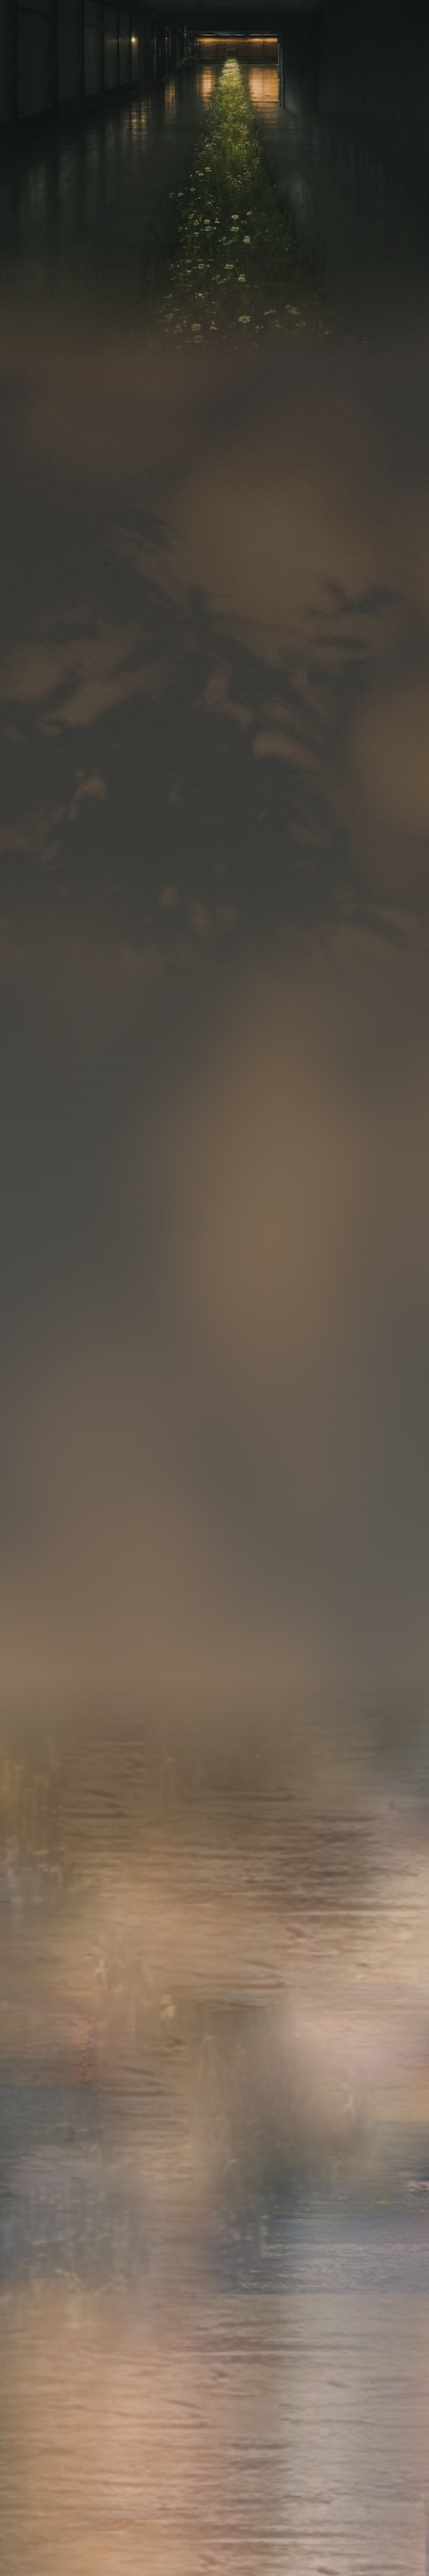
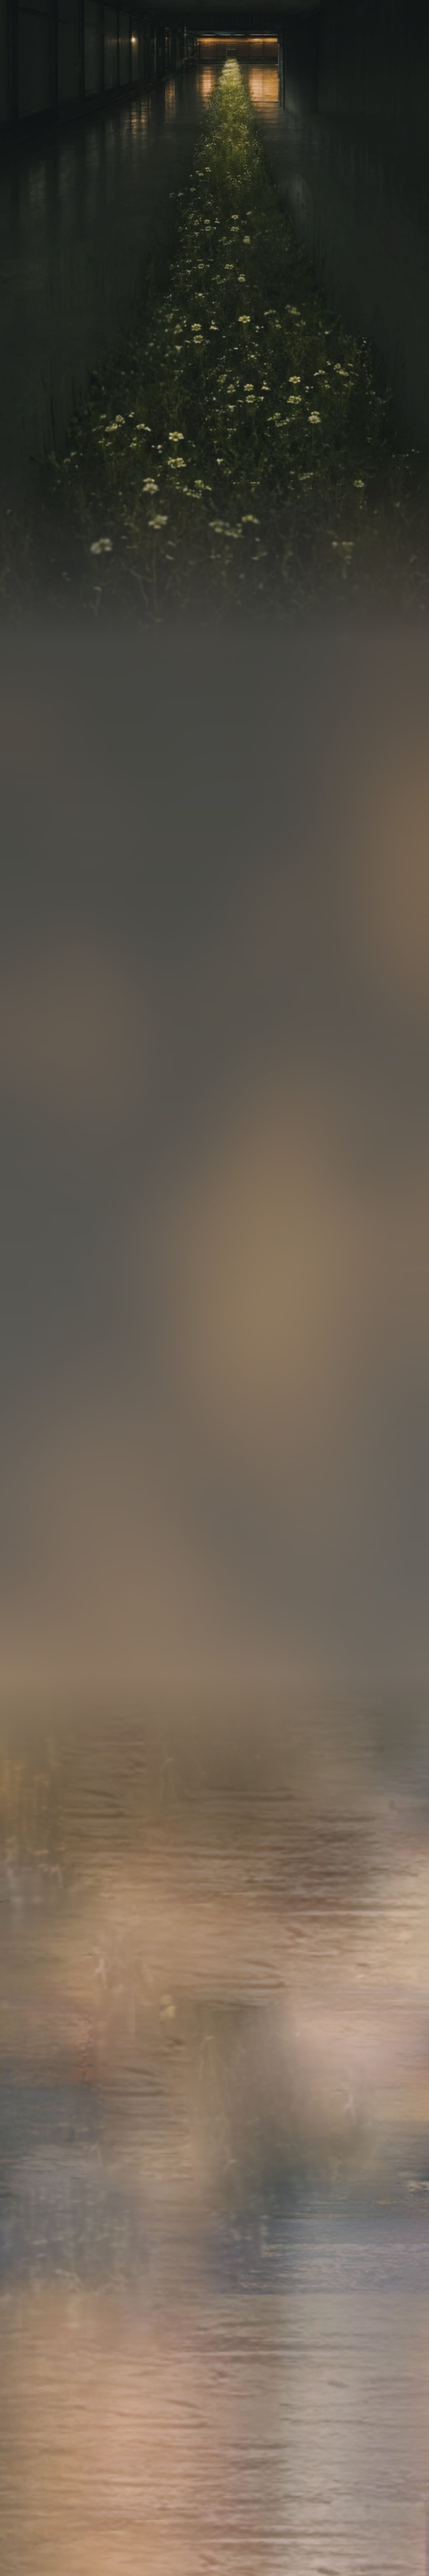
Garden wall: foliage held longer, brighter shade, leaf shadows that sway
The planted corridor now carries through the first Daffodils frames before
giving way to warmer, brighter light. The leaf shadows are a separate layer
multiplied onto the wall with a slow, slight sway (still for visitors who
prefer reduced motion).

Claude-Session: https://claude.ai/code/session_017CfwZAVzcE1XJqFP6CWfhU

diff --git a/app/claude-pass.css b/app/claude-pass.css
@@ -141,3 +141,37 @@
   text-shadow: 0 1px 6px rgba(12, 10, 8, .55);
   text-align: left;
 }
+
+/* GARDEN — leaf shadows cast by the room's plants, moving slightly as if in
+   air. A separate layer multiplied onto the wall, so the shadows can sway
+   without moving the wall itself. Sits behind the Daffodils frames, after the
+   planted corridor; it fades in and out at both ends. */
+.garden-environment::before {
+  content: "";
+  position: absolute;
+  left: -3%;
+  right: -3%;
+  top: 19%;
+  height: 31%;
+  pointer-events: none;
+  background: url("/media/architecture/environments/garden/garden-leaf-shadows.jpg") center / cover no-repeat;
+  mix-blend-mode: multiply;
+  opacity: .9;
+  -webkit-mask-image: linear-gradient(to bottom, transparent 0%, #000 16%, #000 80%, transparent 100%);
+  mask-image: linear-gradient(to bottom, transparent 0%, #000 16%, #000 80%, transparent 100%);
+  transform-origin: 50% 0%;
+  animation: garden-leaf-sway 17s ease-in-out infinite alternate;
+  will-change: transform;
+}
+
+@keyframes garden-leaf-sway {
+  0%   { transform: translate3d(-0.7%, 0, 0) rotate(-0.28deg); }
+  45%  { transform: translate3d(0.3%, 0.25%, 0) rotate(0.12deg) scale(1.004); }
+  100% { transform: translate3d(0.8%, -0.15%, 0) rotate(0.3deg); }
+}
+
+@media (prefers-reduced-motion: reduce) {
+  .garden-environment::before {
+    animation: none;
+  }
+}
